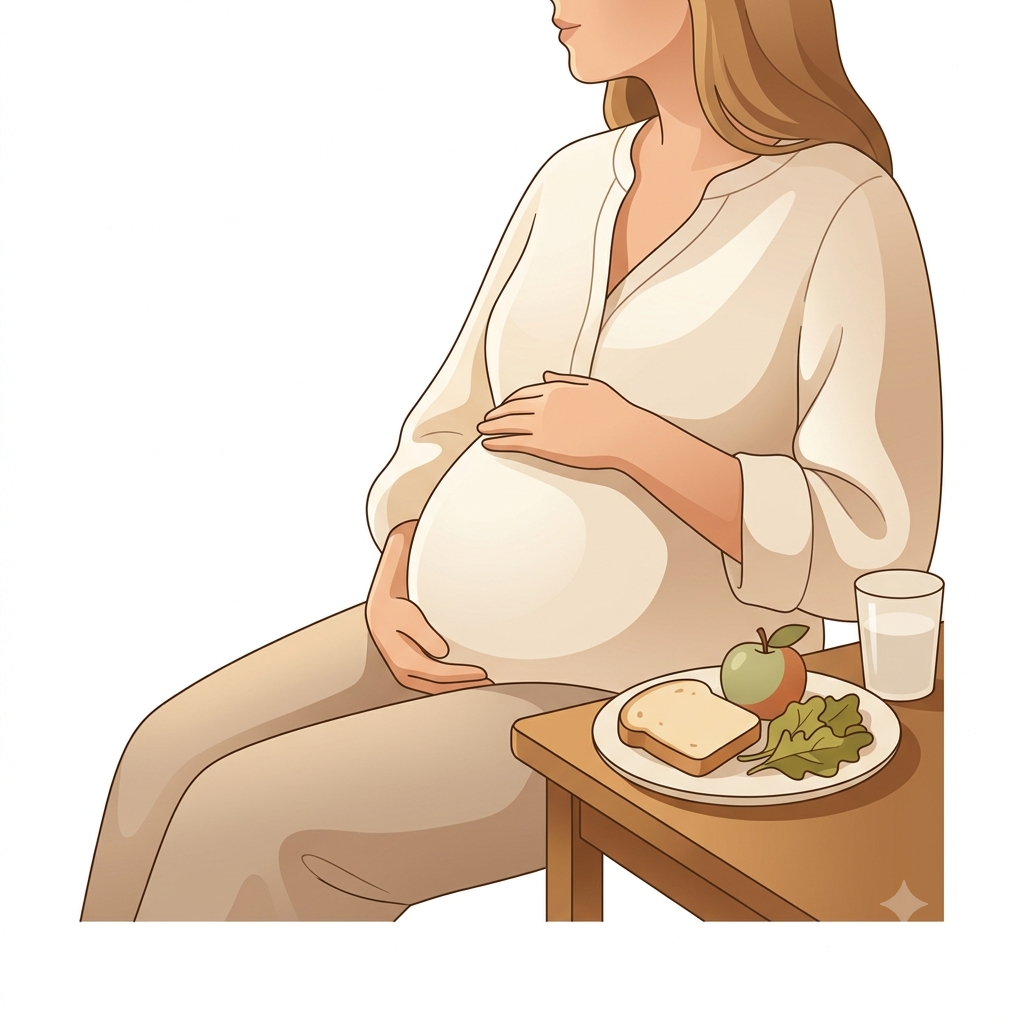
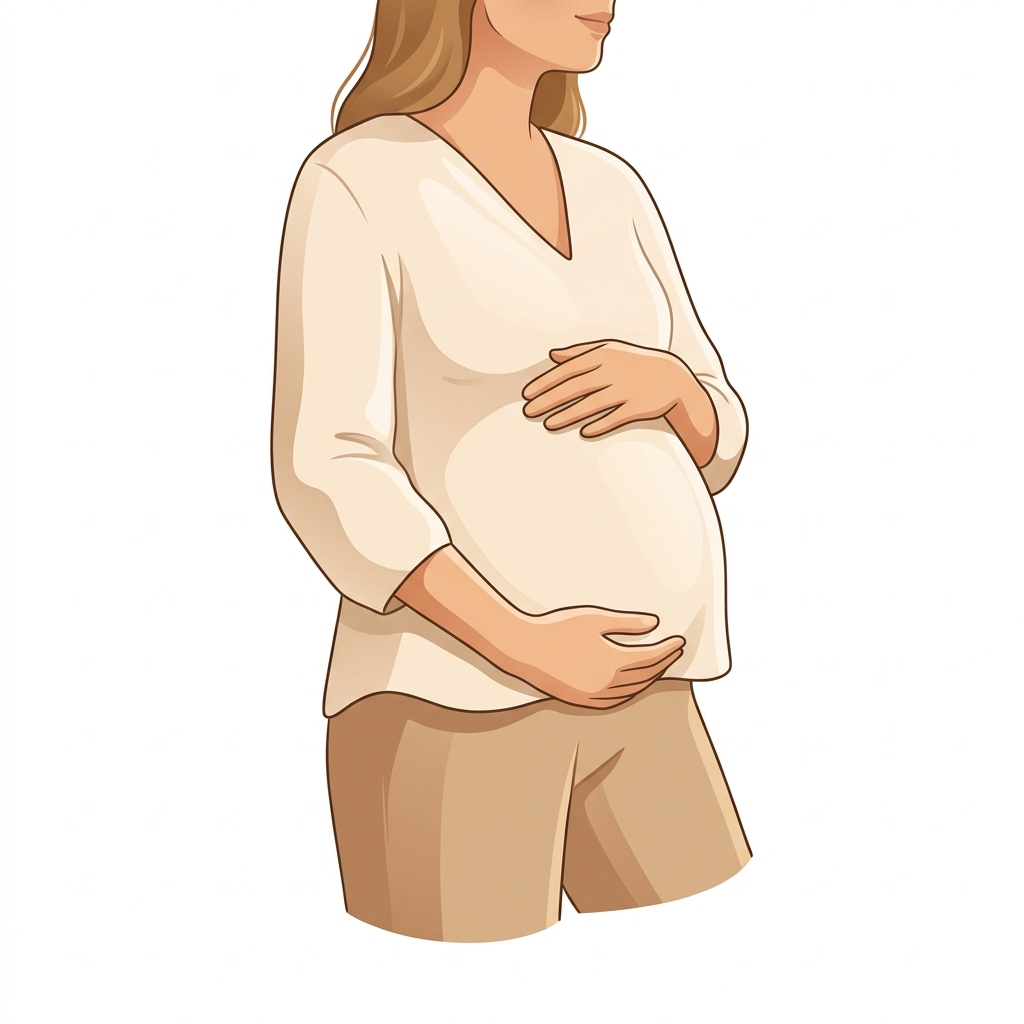
Refaz hero-gestante e mesa-variedade sem moldura quadrada
As 2 ilustrações anteriores tinham shadow/grain sutil no fundo
que dava sensação de "quadrado marcado" mesmo com chroma key.

Refeitas com prompts mais específicos:
- hero-gestante: figura isolada (sem mesa/cadeira), fundo pure white
  sem sombras nem grain, generous white space ao redor
- mesa-variedade: itens scattered organicamente em flat-lay editorial
  (sem mesa/tábua de fundo), cada item com white space entre eles

Cache buster v=3 nas 2 imagens. Outras 3 mantém v=2 (já estavam ok).

diff --git a/index.html b/index.html
@@ -15,7 +15,7 @@
 <!-- HERO -->
 <header class="hero">
   <div class="hero__inner">
-    <img src="assets/illustrations/hero-gestante.png?v=2" alt="" class="hero__illustration">
+    <img src="assets/illustrations/hero-gestante.png?v=3" alt="" class="hero__illustration">
     <p class="eyebrow">Guia de nutrição na gestação</p>
     <h1 class="hero__title">Dois corações,<br>uma mesa</h1>
     <p class="hero__sub">O que você come hoje molda a saúde de uma vida inteira. A sua, e a do seu filho.</p>
@@ -87,7 +87,7 @@
 <!-- NUTRIENTES -->
 <section class="section section--cream" id="nutrientes">
   <div class="container">
-    <img src="assets/illustrations/mesa-variedade.png?v=2" alt="" class="section-illustration">
+    <img src="assets/illustrations/mesa-variedade.png?v=3" alt="" class="section-illustration">
     <p class="eyebrow eyebrow--olive">O que sua mesa precisa ter</p>
     <h2 class="h2">Nutrientes essenciais na gestação</h2>
     <p class="lead">Esses cinco são os que mais demandam atenção. Mas a base é sempre uma alimentação variada. Frutas, verduras, legumes, grãos integrais, leguminosas, oleaginosas e fontes de proteína de qualidade.</p>